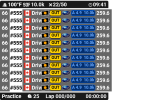
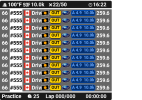
Fixed current lap not updating when spectating.

Changed region(s): [[0.6479, 0.0, 0.7887, 0.09], [0.7606, 0.9, 0.7887, 1.0]]

diff --git a/Plugin/Modules/Driver.cs b/Plugin/Modules/Driver.cs
@@ -137,6 +137,7 @@ namespace benofficial2.Plugin
         public TimeSpan PlayerBestLapTime { get; internal set; } = TimeSpan.Zero;
         public double PlayerCurrentLapHighPrecision { get; set; } = -1;
         public int HighlightedCarIdx { get; set; } = -1;
+        public int HighlightedCurrentLap { get; internal set; } = 0;
 
         public List<ClassLeaderboard> LiveClassLeaderboards { get; private set; } = new List<ClassLeaderboard>();
         public override int UpdatePriority => 30;
@@ -154,6 +155,7 @@ namespace benofficial2.Plugin
             plugin.AttachDelegate(name: "Player.LivePositionInClass", valueProvider: () => PlayerLivePositionInClass);
             plugin.AttachDelegate(name: "Player.LastLapTime", valueProvider: () => PlayerLastLapTime);
             plugin.AttachDelegate(name: "Player.BestLapTime", valueProvider: () => PlayerBestLapTime);
+            plugin.AttachDelegate(name: "Highlighted.CurrentLap", valueProvider: () => HighlightedCurrentLap);
         }
 
         public override void DataUpdate(PluginManager pluginManager, benofficial2 plugin, ref GameData data)
@@ -184,6 +186,7 @@ namespace benofficial2.Plugin
                 PlayerLastLapTime = TimeSpan.Zero;
                 PlayerBestLapTime = TimeSpan.Zero;
                 HighlightedCarIdx = -1;
+                HighlightedCurrentLap = 0;
             }
 
             UpdateDrivers(ref data);
@@ -204,6 +207,7 @@ namespace benofficial2.Plugin
             else
             {
                 HighlightedCarIdx = -1;
+                HighlightedCurrentLap = 0;
             }
 
             for (int i = 0; i < data.NewData.Opponents.Count; i++)
@@ -357,6 +361,11 @@ namespace benofficial2.Plugin
                         PlayerHadWhiteFlag = PlayerHadWhiteFlag || data.NewData.Flag_White == 1;
                         PlayerHadCheckeredFlag = PlayerHadCheckeredFlag || data.NewData.Flag_Checkered == 1;
                     }
+                }
+
+                if (driver.CarIdx == HighlightedCarIdx)
+                {
+                    HighlightedCurrentLap = opponent.CurrentLap ?? 0;
                 }
             }
 
